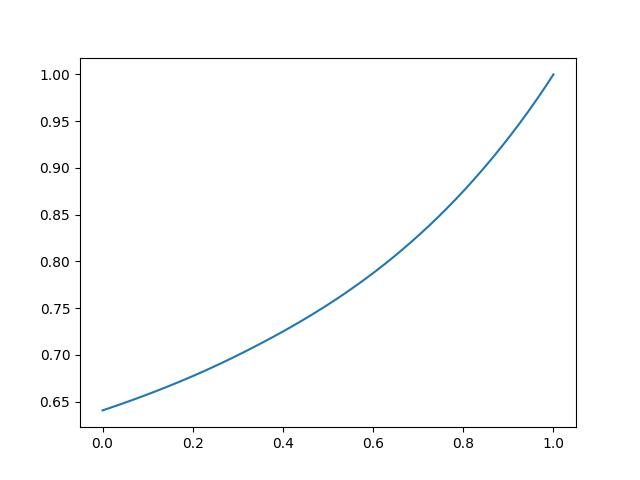
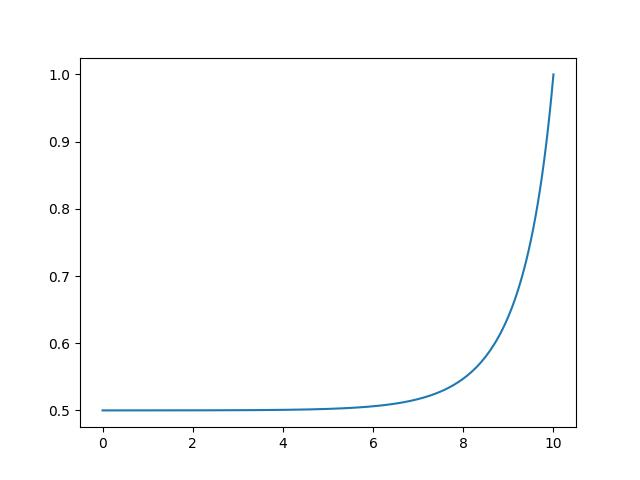
P2: coupled-Riccati solver + N=1 sanity check (max dev 7e-11)

diff --git a/coupled_ricatti.py b/coupled_ricatti.py
@@ -1,0 +1,33 @@
+from scipy.integrate import solve_ivp
+import numpy as np
+from ricatti import solver
+
+kappa = 1
+phi = 0.25
+n = 1                # n=1 for sanity check purposes
+T = 10
+
+
+def fun(t, y):
+    alpha = y[0]
+    beta = y[1]
+
+    dalpha = alpha**2 / kappa - phi
+    dbeta = 1 / kappa * (2 * alpha * beta - (2 * n * beta) ** 2 / (n + 1) ** 2)
+
+    return dalpha, dbeta
+
+# returns evenly separated samples
+# start, stop, n_samples
+ls = np.linspace(T, 0, 200)
+
+# extended by relative and absolute tolerance to tighten solver accuracy
+solve_ivp_c = solve_ivp(fun, t_span=(T, 0), y0=[kappa, 0], t_eval=ls,
+                        rtol=1e-10, atol=1e-12)
+
+
+# sanity check 
+print(np.max(np.abs(solve_ivp_c.y[0] - solver.y[0])))
+
+
+

diff --git a/ricatti.py b/ricatti.py
@@ -4,7 +4,7 @@ import matplotlib.pyplot as plt
 
 kappa = 1
 phi = 0.25
-T = 1
+T = 10
 g0 = 10
 
 # rule determining the rate of change of a
@@ -18,7 +18,9 @@ ls = np.linspace(T, 0, 200)
 # to solve the initial value problem
 # y0 determines the initial state, which here is a terminal condition
 # and a(T) = kappa at starting point
-solver = solve_ivp(ricatti, (T, 0), y0=[kappa], t_eval=ls)
+# extended by relative and absolute tolerance to tighten solver accuracy
+solver = solve_ivp(ricatti, (T, 0), y0=[kappa], t_eval=ls,
+                        rtol=1e-10, atol=1e-12)
 
 if __name__ == "__main__":
     # the curve of cost-to-go
